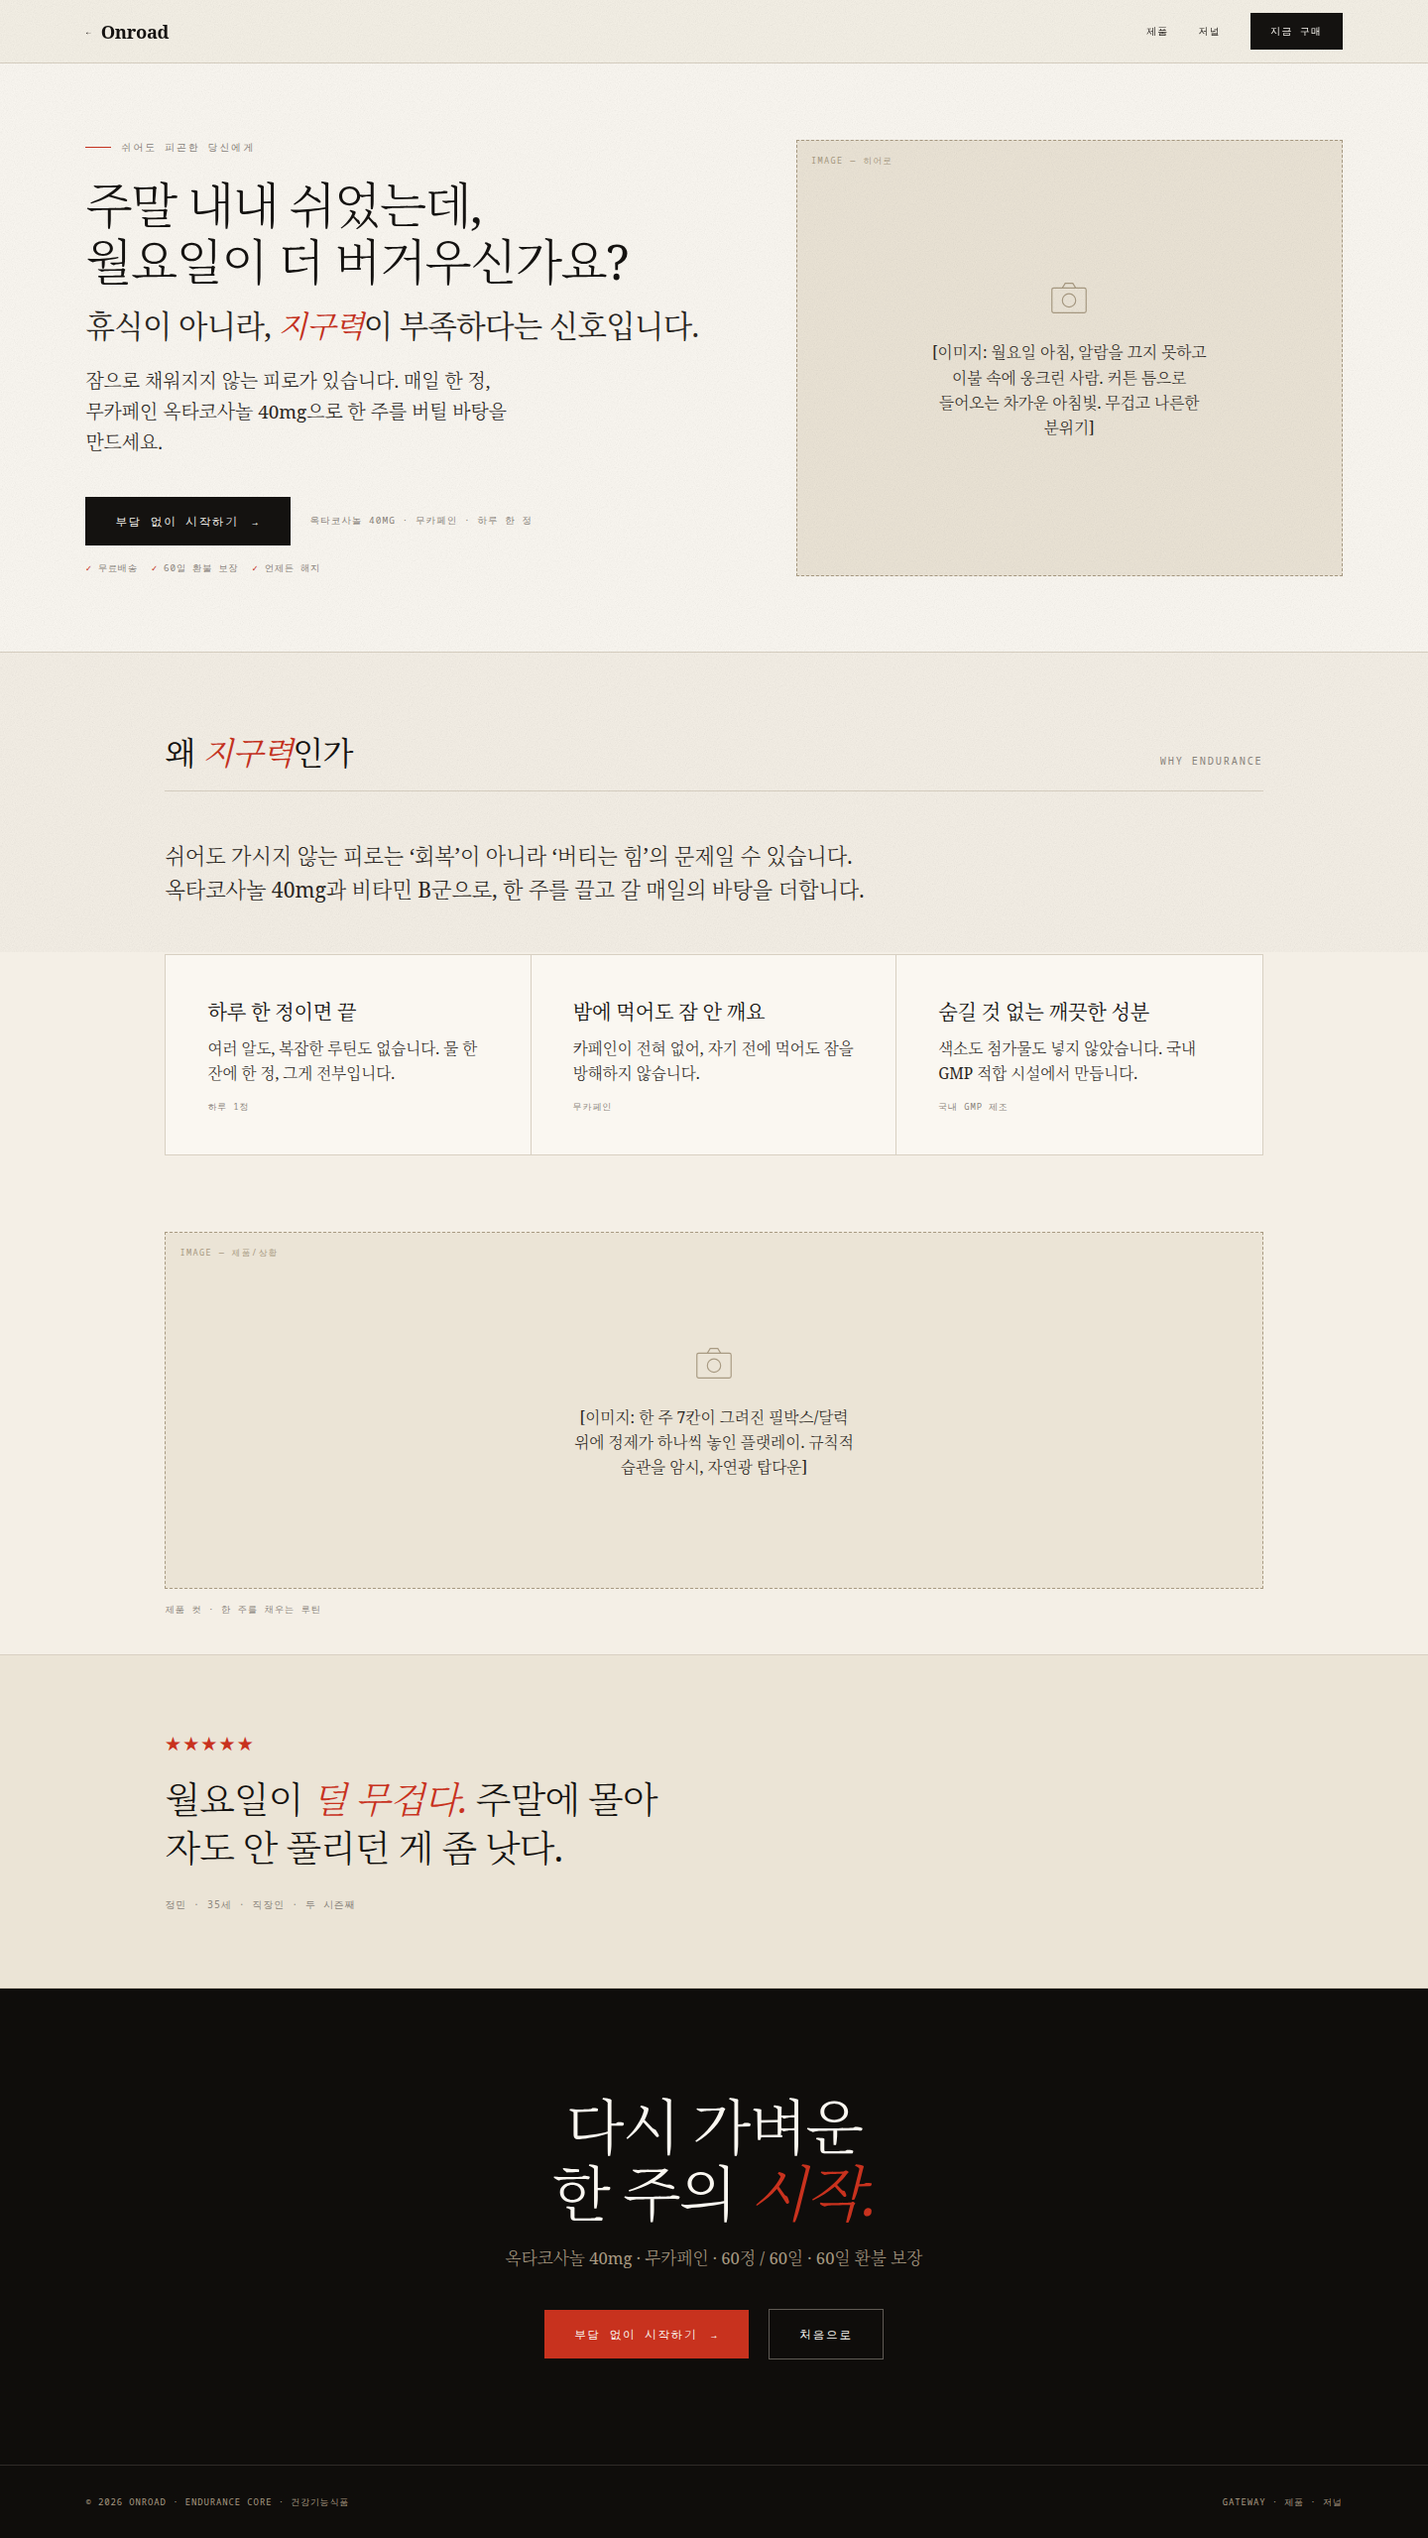
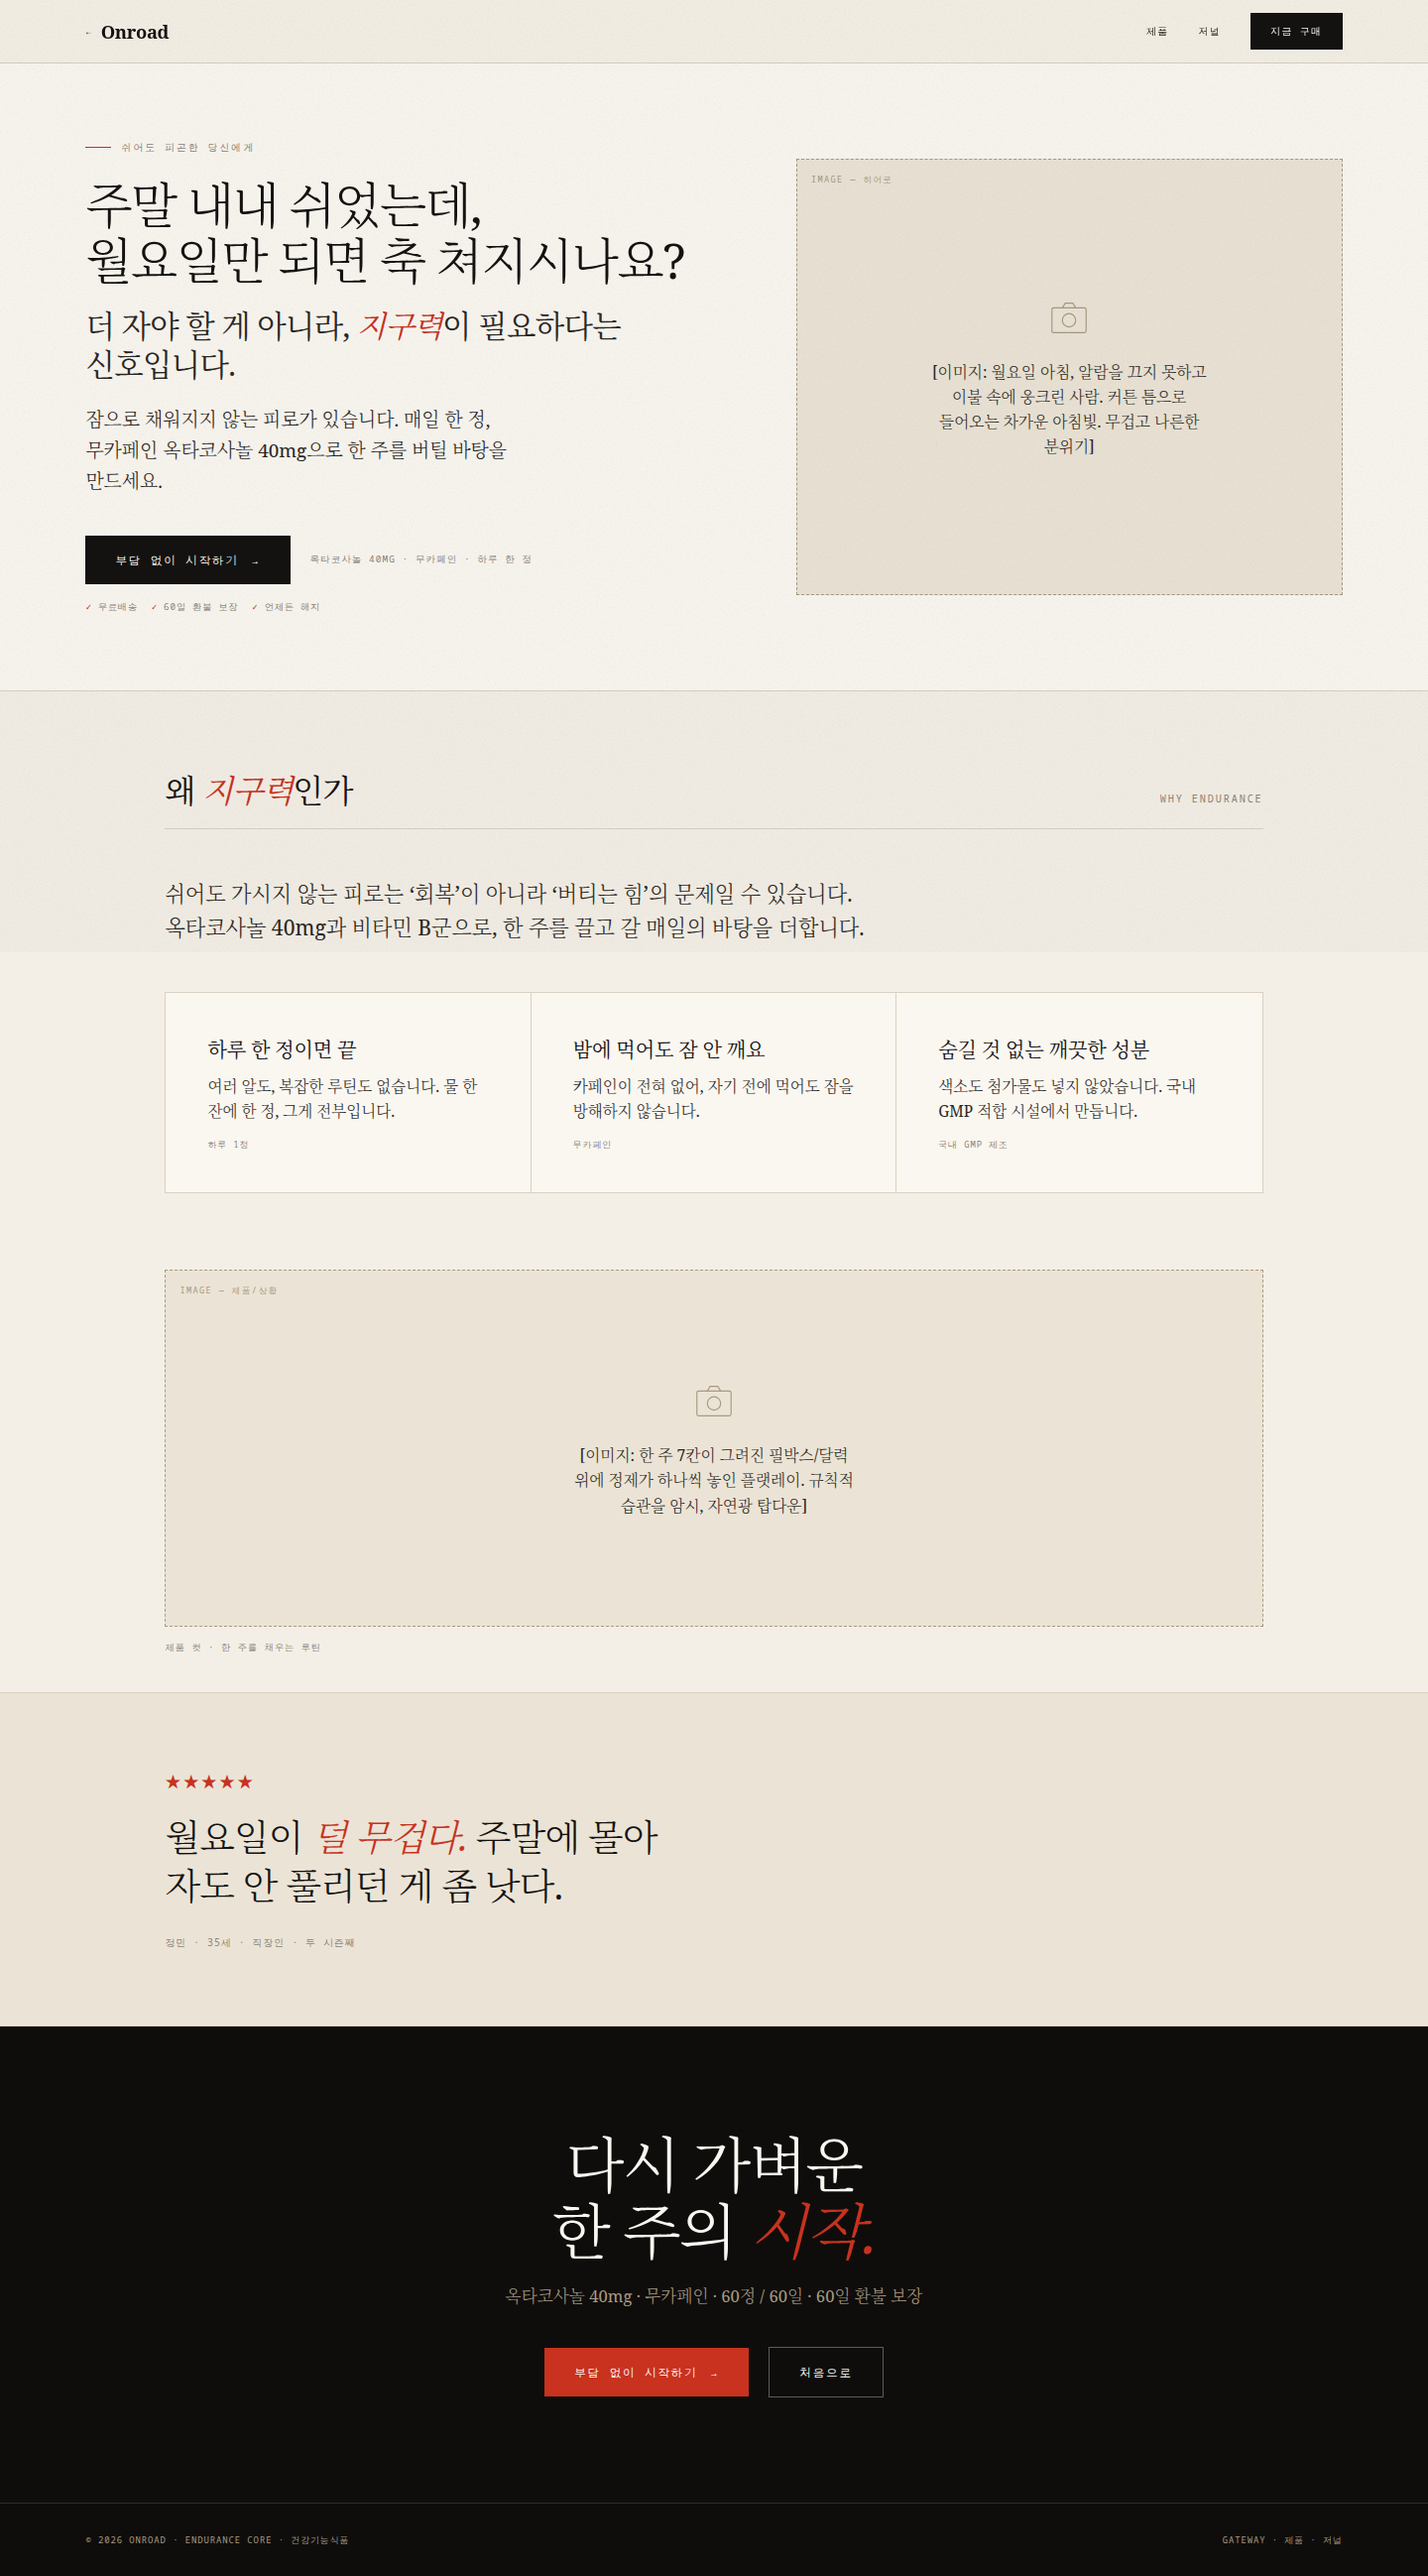
Soften lp-03 hook to a more colloquial, empathetic tone
'월요일이 더 버거우신가요?' -> '월요일만 되면 축 쳐지시나요?'; rec line
'휴식이 아니라' -> '더 자야 할 게 아니라, 지구력이 필요하다는 신호입니다.'

Claude-Session: https://claude.ai/code/session_01J97TaoKB5RB8QHhYcTzqGg

diff --git a/project/redesign/lp-03.html b/project/redesign/lp-03.html
@@ -134,8 +134,8 @@ a{color:inherit;text-decoration:none;}
   <div class="hero-grid">
     <div class="hero-copy">
       <span class="eyebrow">쉬어도 피곤한 당신에게</span>
-      <h1 class="hook">주말 내내 쉬었는데,<br>월요일이 더 버거우신가요?</h1>
-      <p class="rec">휴식이 아니라, <span class="red">지구력</span>이 부족하다는 신호입니다.</p>
+      <h1 class="hook">주말 내내 쉬었는데,<br>월요일만 되면 축 쳐지시나요?</h1>
+      <p class="rec">더 자야 할 게 아니라, <span class="red">지구력</span>이 필요하다는 신호입니다.</p>
       <p class="lede">잠으로 채워지지 않는 피로가 있습니다. 매일 한 정, 무카페인 옥타코사놀 40mg으로 한 주를 버틸 바탕을 만드세요.</p>
       <div class="cta-row">
         <a class="btn solid" href="product.html">부담 없이 시작하기 <span class="arr">→</span></a>
